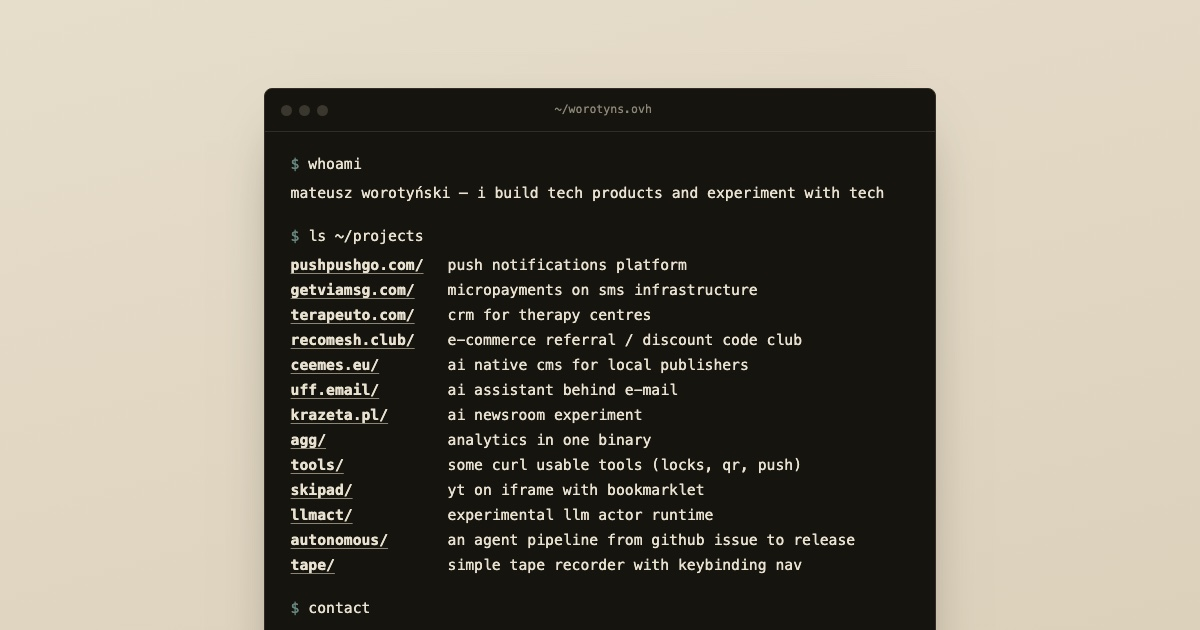
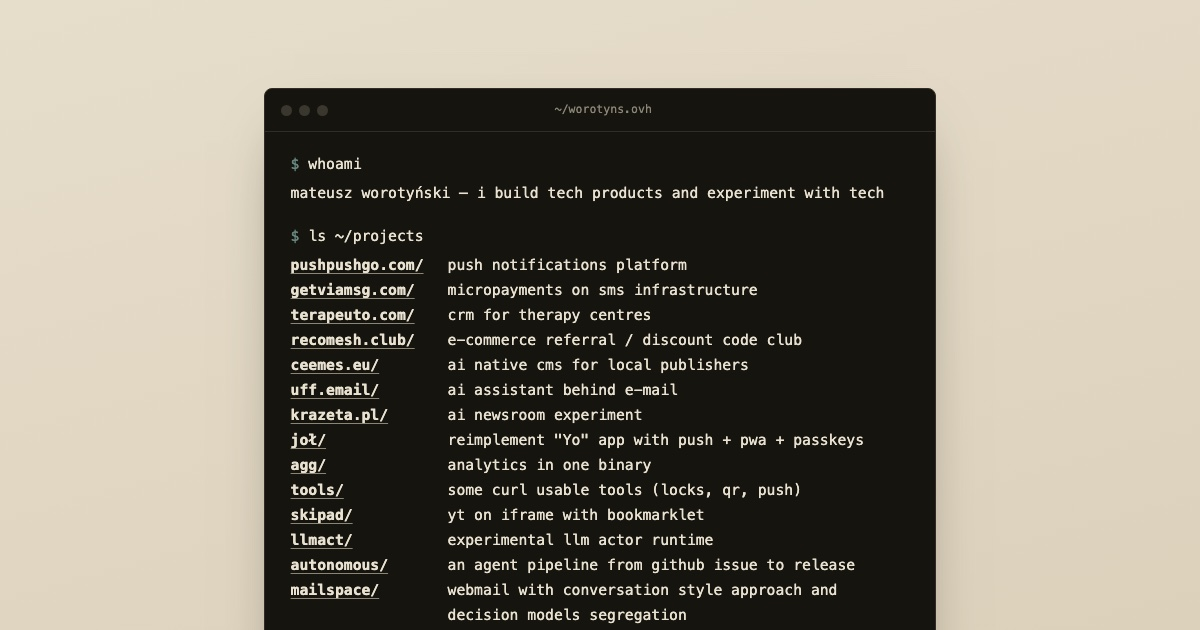
fix: ogimage

Changed region(s): [[0.37, 0.6937, 0.7092, 0.9952], [0.2467, 0.6937, 0.3392, 0.9952]]

diff --git a/index.html b/index.html
@@ -12,7 +12,7 @@
   <meta property="og:title" content="Mateusz Worotyński">
   <meta property="og:description" content="I build tech products and experiment with tech.">
   <meta property="og:url" content="https://worotyns.ovh/">
-  <meta property="og:image" content="https://worotyns.ovh/ogimage.jpg?v=778fb0a3">
+  <meta property="og:image" content="https://worotyns.ovh/ogimage.jpg?v=acc41f23">
   <meta name="twitter:card" content="summary_large_image">
 
   <link rel="apple-touch-icon" sizes="180x180" href="/apple-touch-icon.png">
